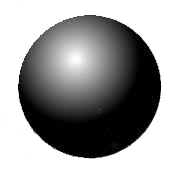
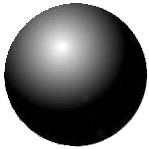
changed tank and cannonball images

diff --git a/main.js b/main.js
@@ -3,7 +3,7 @@ var playerTank
 var shotsFired = [];
 
 function initializeGame(){
-    playerTank = new Tank( { img: 'images/tankPic.jpeg', xPosition: 0, yPosition: 25, angleOfDirection: 0 } );
+    playerTank = new Tank( { img: 'images/tankPic.png', xPosition: 0, yPosition: 25, angleOfDirection: 0 } );
     playerTank.startHeartbeat();
     attachEventHandlers();
 }

diff --git a/style.css b/style.css
@@ -27,7 +27,7 @@ footer{
 .tank{
     position: absolute;
     height: 20%;
-    width: 10%;
+    width: auto;
     transform-origin: (50%, 50%);
 }
 .cannonBall{
